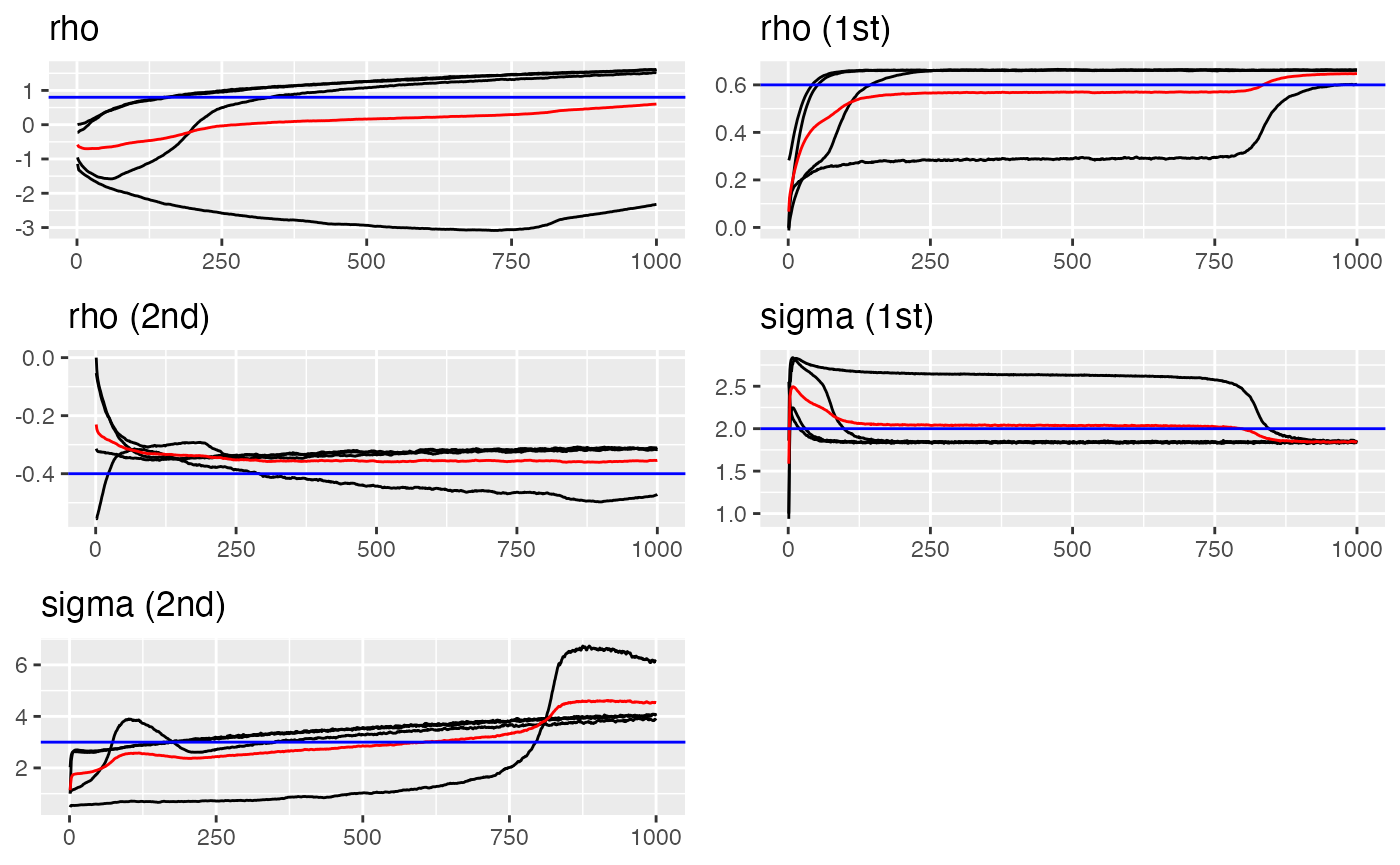
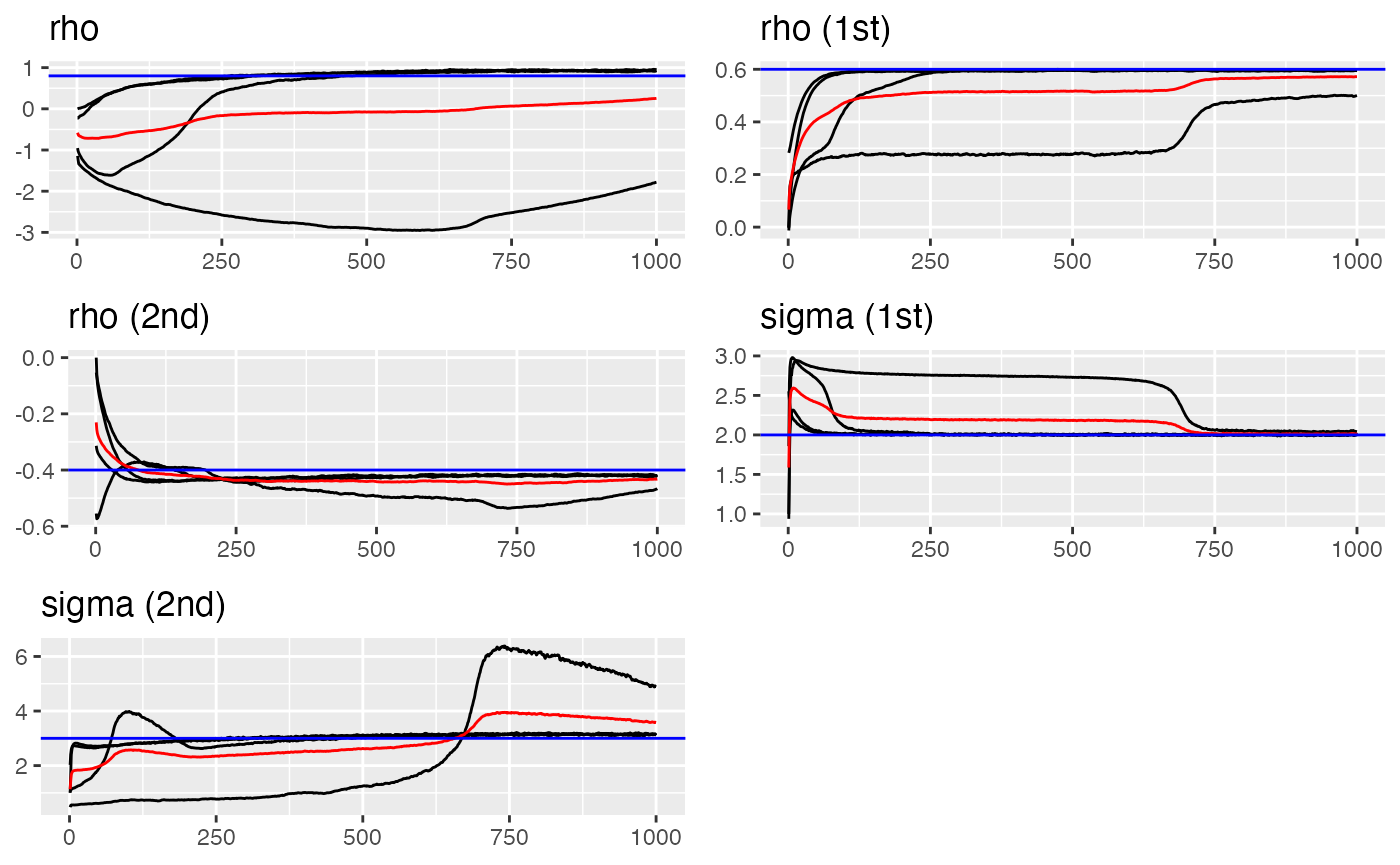
updates

diff --git a/docs/articles/bivariate.html b/docs/articles/bivariate.html
@@ -42,18 +42,16 @@
   <button class="nav-link dropdown-toggle" type="button" id="dropdown-vignettes" data-bs-toggle="dropdown" aria-expanded="false" aria-haspopup="true">Vignettes</button>
   <ul class="dropdown-menu" aria-labelledby="dropdown-vignettes">
 <li><a class="dropdown-item" href="../articles/Installation_and_configuration.html">Installation and configuration (using OpenMP)</a></li>
-    <li><a class="dropdown-item" href="../articles/inla_compare.html">Comparison with R-INLA</a></li>
     <li><a class="dropdown-item" href="../articles/AR1-model.html">AR(1) model</a></li>
     <li><a class="dropdown-item" href="../articles/RW-model.html">Random walk model</a></li>
-    <li><a class="dropdown-item" href="../article/ngme2_ou_vignette.html">Ornstein-Uhlenbeck process</a></li>
+    <li><a class="dropdown-item" href="../articles/ou-process.html">Ornstein-Uhlenbeck process</a></li>
     <li><a class="dropdown-item" href="../articles/SPDE-model.html">SPDE Matern model</a></li>
     <li><a class="dropdown-item" href="../articles/normal-nig-noise.html">Models with Combined Gaussian and NIG Noise</a></li>
     <li><a class="dropdown-item" href="../articles/replicate.html">Models with replicates</a></li>
-    <li><a class="dropdown-item" href="../articles/pred_and_est.html">Model estimation and prediction</a></li>
+    <li><a class="dropdown-item" href="../articles/pred-and-est.html">Model estimation and prediction</a></li>
     <li><a class="dropdown-item" href="../articles/bivariate.html">Bivariate models in Ngme2</a></li>
-    <li><a class="dropdown-item" href="../articles/tp-bv.html">Space-time bivariate model in Ngme2</a></li>
     <li><a class="dropdown-item" href="../articles/random-effect.html">Random effects model in Ngme2</a></li>
-    <li><a class="dropdown-item" href="../articles/tensor_product.html">Space-time (tensor product) model in Ngme2</a></li>
+    <li><a class="dropdown-item" href="../articles/tensor-product.html">Space-time (tensor product) model in Ngme2</a></li>
     <li><a class="dropdown-item" href="../articles/matern-on-graph.html">Matern SPDE model on Metric Graph</a></li>
     <li><a class="dropdown-item" href="../articles/cross-validation.html">Cross-validation for the ngme2 models</a></li>
     <li><a class="dropdown-item" href="../articles/generic.html">Using the Generic Model in ngme2</a></li>
@@ -514,9 +512,9 @@ measurement noise<a class="anchor" aria-label="anchor" href="#ex1--fixed-effects
 <span><span class="va">rho_e</span> <span class="op">&lt;-</span> <span class="fl">0.9</span></span>
 <span><span class="va">Cov_same_idx</span> <span class="op">&lt;-</span> <span class="fu"><a href="https://rdrr.io/r/base/matrix.html" class="external-link">matrix</a></span><span class="op">(</span><span class="fu"><a href="https://rdrr.io/r/base/c.html" class="external-link">c</a></span><span class="op">(</span><span class="va">sd_1</span><span class="op">^</span><span class="fl">2</span>, <span class="va">rho_e</span> <span class="op">*</span> <span class="va">sd_1</span> <span class="op">*</span> <span class="va">sd_2</span>, <span class="va">rho_e</span> <span class="op">*</span> <span class="va">sd_1</span> <span class="op">*</span> <span class="va">sd_2</span>, <span class="va">sd_2</span><span class="op">^</span><span class="fl">2</span><span class="op">)</span>, nrow <span class="op">=</span> <span class="fl">2</span><span class="op">)</span></span>
 <span></span>
-<span><span class="fu"><a href="https://www.math.uzh.ch/pages/spam/reference/print.html" class="external-link">print</a></span><span class="op">(</span><span class="st">"The covariance matrix for 2 correlated fields: "</span><span class="op">)</span></span>
+<span><span class="fu"><a href="https://rdrr.io/pkg/spam/man/print.html" class="external-link">print</a></span><span class="op">(</span><span class="st">"The covariance matrix for 2 correlated fields: "</span><span class="op">)</span></span>
 <span><span class="co">#&gt; [1] "The covariance matrix for 2 correlated fields: "</span></span>
-<span><span class="fu"><a href="https://www.math.uzh.ch/pages/spam/reference/print.html" class="external-link">print</a></span><span class="op">(</span><span class="va">Cov_same_idx</span><span class="op">)</span></span>
+<span><span class="fu"><a href="https://rdrr.io/pkg/spam/man/print.html" class="external-link">print</a></span><span class="op">(</span><span class="va">Cov_same_idx</span><span class="op">)</span></span>
 <span><span class="co">#&gt;       [,1]  [,2]</span></span>
 <span><span class="co">#&gt; [1,] 0.360 0.486</span></span>
 <span><span class="co">#&gt; [2,] 0.486 0.810</span></span>
@@ -579,7 +577,7 @@ measurement noise<a class="anchor" aria-label="anchor" href="#ex1--fixed-effects
 <span><span class="co">#&gt; </span></span>
 <span><span class="co">#&gt; Starting posterior sampling... </span></span>
 <span><span class="co">#&gt; Posterior sampling done! </span></span>
-<span><span class="co">#&gt; Average standard deviation of the posterior W:  3.006073 </span></span>
+<span><span class="co">#&gt; Average standard deviation of the posterior W:  2.939937 </span></span>
 <span><span class="co">#&gt; Note:</span></span>
 <span><span class="co">#&gt;       1. Use ngme_post_samples(..) to access the posterior samples.</span></span>
 <span><span class="co">#&gt;       2. Use ngme_result(..) to access different latent models.</span></span>
@@ -589,66 +587,66 @@ measurement noise<a class="anchor" aria-label="anchor" href="#ex1--fixed-effects
 <span><span class="co">#&gt; </span></span>
 <span><span class="co">#&gt; Fixed effects: </span></span>
 <span><span class="co">#&gt;    x1    x2 </span></span>
-<span><span class="co">#&gt; -2.91  1.54 </span></span>
+<span><span class="co">#&gt; -2.99  1.48 </span></span>
 <span><span class="co">#&gt; </span></span>
 <span><span class="co">#&gt; Models: </span></span>
 <span><span class="co">#&gt; $bv</span></span>
 <span><span class="co">#&gt;   Model type: Bivariate model</span></span>
 <span><span class="co">#&gt;       theta = 0 (fixed)</span></span>
-<span><span class="co">#&gt;       rho = 0.603</span></span>
+<span><span class="co">#&gt;       rho = 0.254</span></span>
 <span><span class="co">#&gt;       W1: AR(1)</span></span>
-<span><span class="co">#&gt;           rho = 0.648</span></span>
+<span><span class="co">#&gt;           rho = 0.573</span></span>
 <span><span class="co">#&gt;       W2: AR(1)</span></span>
-<span><span class="co">#&gt;           rho = -0.356</span></span>
+<span><span class="co">#&gt;           rho = -0.433</span></span>
 <span><span class="co">#&gt;    Bivariate type-G4 noise:</span></span>
 <span><span class="co">#&gt;       W1: NORMAL</span></span>
 <span><span class="co">#&gt;       Noise parameters: </span></span>
-<span><span class="co">#&gt;           sigma = 1.84</span></span>
+<span><span class="co">#&gt;           sigma = 2.01</span></span>
 <span><span class="co">#&gt;       W2: NORMAL</span></span>
 <span><span class="co">#&gt;       Noise parameters: </span></span>
-<span><span class="co">#&gt;           sigma = 4.45</span></span>
+<span><span class="co">#&gt;           sigma = 3.51</span></span>
 <span><span class="co">#&gt; </span></span>
 <span><span class="co">#&gt; </span></span>
 <span><span class="co">#&gt; Measurement noise: </span></span>
 <span><span class="co">#&gt;   Noise type: NORMAL</span></span>
 <span><span class="co">#&gt;   Noise parameters: </span></span>
-<span><span class="co">#&gt;       theta_sigma = -0.460, -0.102</span></span>
-<span><span class="co">#&gt;       correlation(rho) = 0.89</span></span>
+<span><span class="co">#&gt;       theta_sigma = -0.55, -0.13</span></span>
+<span><span class="co">#&gt;       correlation(rho) = 0.905</span></span>
 <span><span class="co"># Compare the estimated value with the simulated value</span></span>
 <span><span class="fu"><a href="../reference/traceplot.html">traceplot</a></span><span class="op">(</span><span class="va">bvar_cor</span>, <span class="st">"bv"</span>, hline <span class="op">=</span> <span class="fu"><a href="https://rdrr.io/r/base/c.html" class="external-link">c</a></span><span class="op">(</span><span class="va">rho</span>, <span class="va">rho1</span>, <span class="va">rho2</span>, <span class="va">sigma1</span>, <span class="va">sigma2</span><span class="op">)</span><span class="op">)</span></span></code></pre></div>
 <p><img src="bivariate_files/figure-html/unnamed-chunk-2-1.png" width="700"></p>
 <pre><code><span><span class="co">#&gt; Last estimates:</span></span>
 <span><span class="co">#&gt; $rho</span></span>
-<span><span class="co">#&gt; [1] 0.60297</span></span>
+<span><span class="co">#&gt; [1] 0.2544179</span></span>
 <span><span class="co">#&gt; </span></span>
 <span><span class="co">#&gt; $`rho (1st)`</span></span>
-<span><span class="co">#&gt; [1] 0.6473268</span></span>
+<span><span class="co">#&gt; [1] 0.5719747</span></span>
 <span><span class="co">#&gt; </span></span>
 <span><span class="co">#&gt; $`rho (2nd)`</span></span>
-<span><span class="co">#&gt; [1] -0.3540305</span></span>
+<span><span class="co">#&gt; [1] -0.4322771</span></span>
 <span><span class="co">#&gt; </span></span>
 <span><span class="co">#&gt; $`sigma (1st)`</span></span>
-<span><span class="co">#&gt; [1] 1.84074</span></span>
+<span><span class="co">#&gt; [1] 2.010051</span></span>
 <span><span class="co">#&gt; </span></span>
 <span><span class="co">#&gt; $`sigma (2nd)`</span></span>
-<span><span class="co">#&gt; [1] 4.529173</span></span>
+<span><span class="co">#&gt; [1] 3.578011</span></span>
 <span><span class="fu"><a href="../reference/traceplot.html">traceplot</a></span><span class="op">(</span><span class="va">bvar_cor</span>, hline <span class="op">=</span> <span class="fu"><a href="https://rdrr.io/r/base/c.html" class="external-link">c</a></span><span class="op">(</span><span class="fu"><a href="https://rdrr.io/r/base/Log.html" class="external-link">log</a></span><span class="op">(</span><span class="va">sd_1</span><span class="op">)</span>, <span class="fu"><a href="https://rdrr.io/r/base/Log.html" class="external-link">log</a></span><span class="op">(</span><span class="va">sd_2</span><span class="op">)</span>, <span class="va">rho_e</span>, <span class="op">-</span><span class="fl">3</span>, <span class="fl">1.5</span><span class="op">)</span><span class="op">)</span></span></code></pre>
 <p><img src="bivariate_files/figure-html/unnamed-chunk-2-2.png" width="700"></p>
 <pre><code><span><span class="co">#&gt; Last estimates:</span></span>
 <span><span class="co">#&gt; $`theta_sigma 1`</span></span>
-<span><span class="co">#&gt; [1] -0.4587464</span></span>
+<span><span class="co">#&gt; [1] -0.5491268</span></span>
 <span><span class="co">#&gt; </span></span>
 <span><span class="co">#&gt; $`theta_sigma 2`</span></span>
-<span><span class="co">#&gt; [1] -0.101716</span></span>
+<span><span class="co">#&gt; [1] -0.1307182</span></span>
 <span><span class="co">#&gt; </span></span>
 <span><span class="co">#&gt; $`rho(measurement)`</span></span>
-<span><span class="co">#&gt; [1] 0.8903817</span></span>
+<span><span class="co">#&gt; [1] 0.9050646</span></span>
 <span><span class="co">#&gt; </span></span>
 <span><span class="co">#&gt; $`fixed effect 1`</span></span>
-<span><span class="co">#&gt; [1] -2.907509</span></span>
+<span><span class="co">#&gt; [1] -2.987892</span></span>
 <span><span class="co">#&gt; </span></span>
 <span><span class="co">#&gt; $`fixed effect 2`</span></span>
-<span><span class="co">#&gt; [1] 1.542195</span></span></code></pre>
+<span><span class="co">#&gt; [1] 1.479604</span></span></code></pre>
 </div>
 <div class="section level3">
 <h3 id="ex2--fixed-effects-bivariate-model-ar1-nig-correlated-measurement-noise">Ex2. Fixed effects + Bivariate model (AR1, NIG) + Correlated
@@ -693,7 +691,7 @@ measurement noise<a class="anchor" aria-label="anchor" href="#ex2--fixed-effects
 <span></span>
 <span><span class="co"># Same as previous</span></span>
 <span><span class="va">Cov_same_idx</span> <span class="op">&lt;-</span> <span class="fu"><a href="https://rdrr.io/r/base/matrix.html" class="external-link">matrix</a></span><span class="op">(</span><span class="fu"><a href="https://rdrr.io/r/base/c.html" class="external-link">c</a></span><span class="op">(</span><span class="fl">1</span>, <span class="fl">0.7</span>, <span class="fl">0.7</span>, <span class="fl">1</span><span class="op">)</span>, nrow <span class="op">=</span> <span class="fl">2</span><span class="op">)</span></span>
-<span><span class="va">Cov_measurement</span> <span class="op">&lt;-</span> <span class="va">Cov_same_idx</span> <span class="op"><a href="https://rdrr.io/r/base/kronecker.html" class="external-link">%x%</a></span> <span class="fu"><a href="https://www.math.uzh.ch/pages/spam/reference/diag.html" class="external-link">diag</a></span><span class="op">(</span><span class="va">n_obs</span> <span class="op">/</span> <span class="fl">2</span><span class="op">)</span></span>
+<span><span class="va">Cov_measurement</span> <span class="op">&lt;-</span> <span class="va">Cov_same_idx</span> <span class="op"><a href="https://rdrr.io/r/base/kronecker.html" class="external-link">%x%</a></span> <span class="fu"><a href="https://rdrr.io/pkg/spam/man/diag.html" class="external-link">diag</a></span><span class="op">(</span><span class="va">n_obs</span> <span class="op">/</span> <span class="fl">2</span><span class="op">)</span></span>
 <span></span>
 <span><span class="co"># e ~ N(0, Cov_measurement)</span></span>
 <span><span class="va">L</span> <span class="op">&lt;-</span> <span class="fu"><a href="https://rdrr.io/r/base/t.html" class="external-link">t</a></span><span class="op">(</span><span class="fu"><a href="https://rdrr.io/pkg/Matrix/man/chol-methods.html" class="external-link">chol</a></span><span class="op">(</span><span class="va">Cov_measurement</span><span class="op">)</span><span class="op">)</span></span>

diff --git a/NEWS.md b/NEWS.md
@@ -1,3 +1,8 @@
+# ngme2 0.8.0
+* Update to use model() instead of string for model definition
+* Refactor on the codebase
+* Add more vignettes
+
 # ngme2 0.7.1
 * Documentation updates
 * Add print log likelihood for Gaussian models
